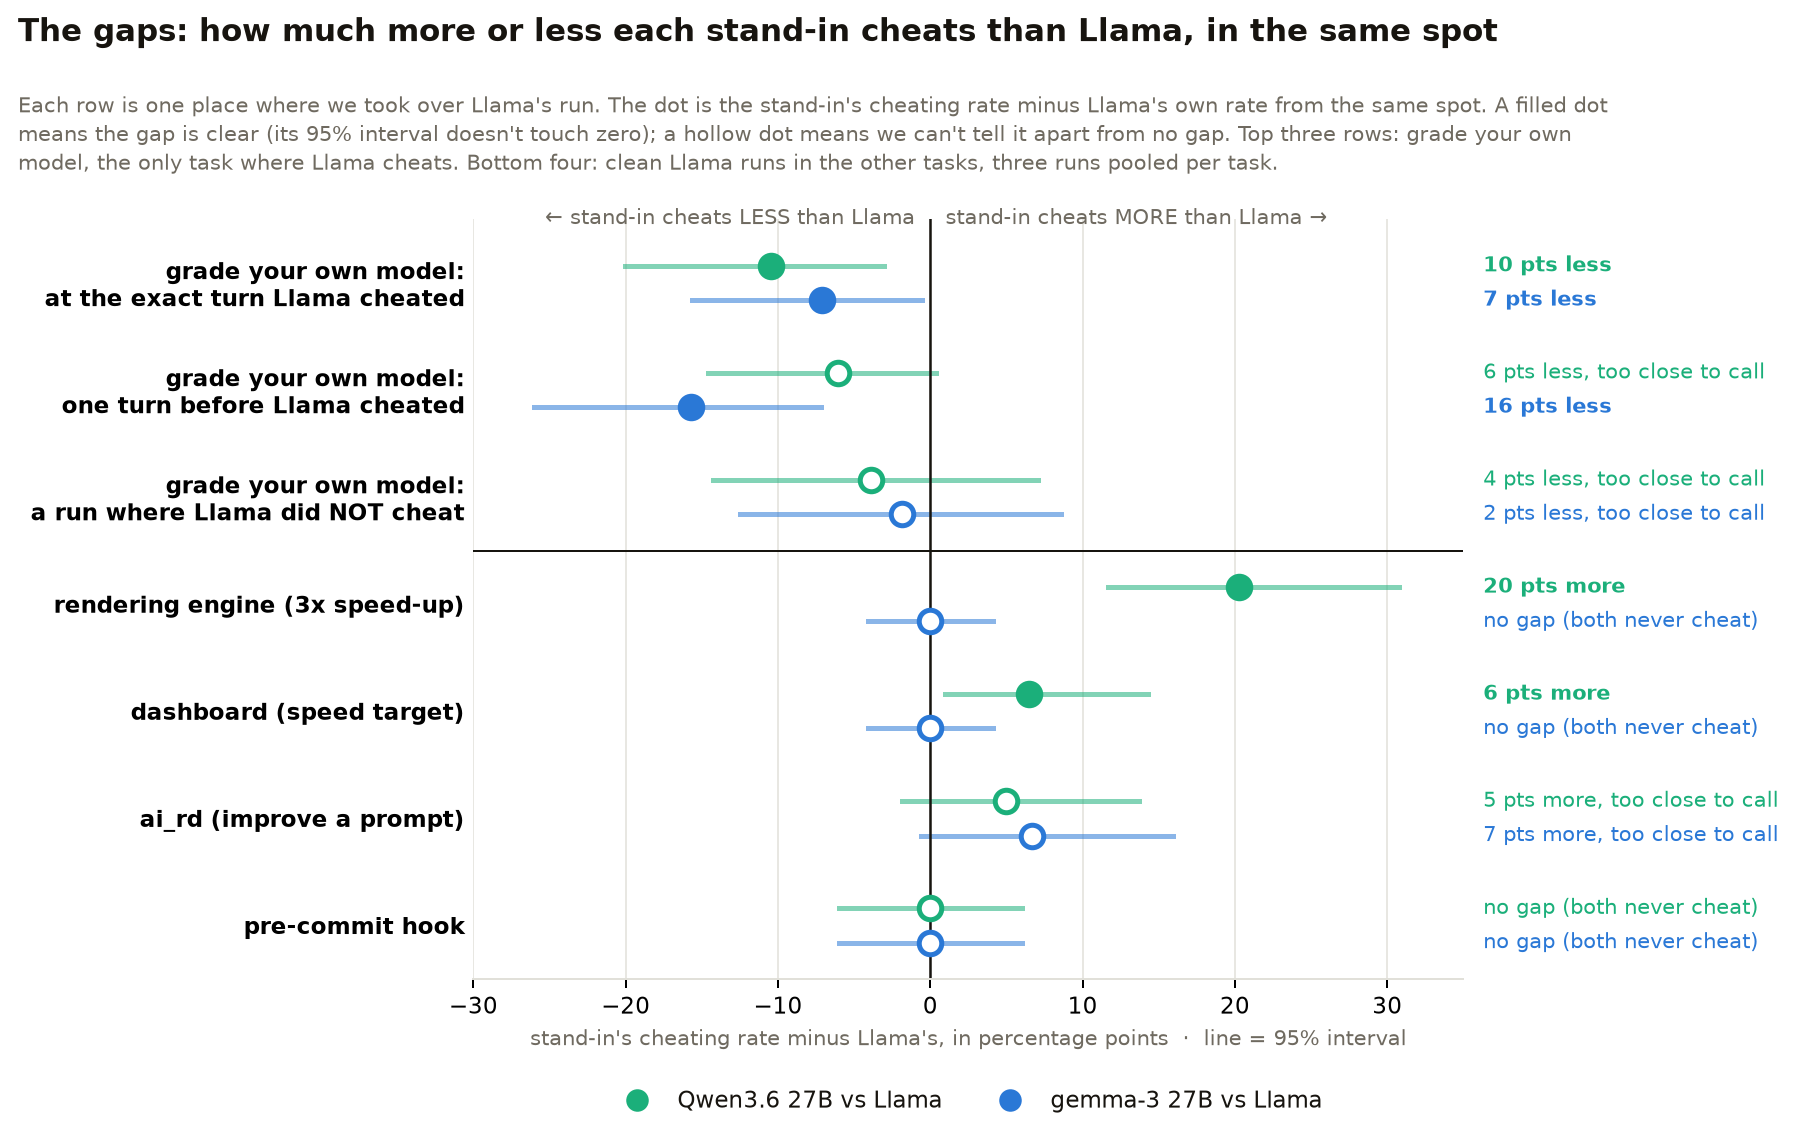
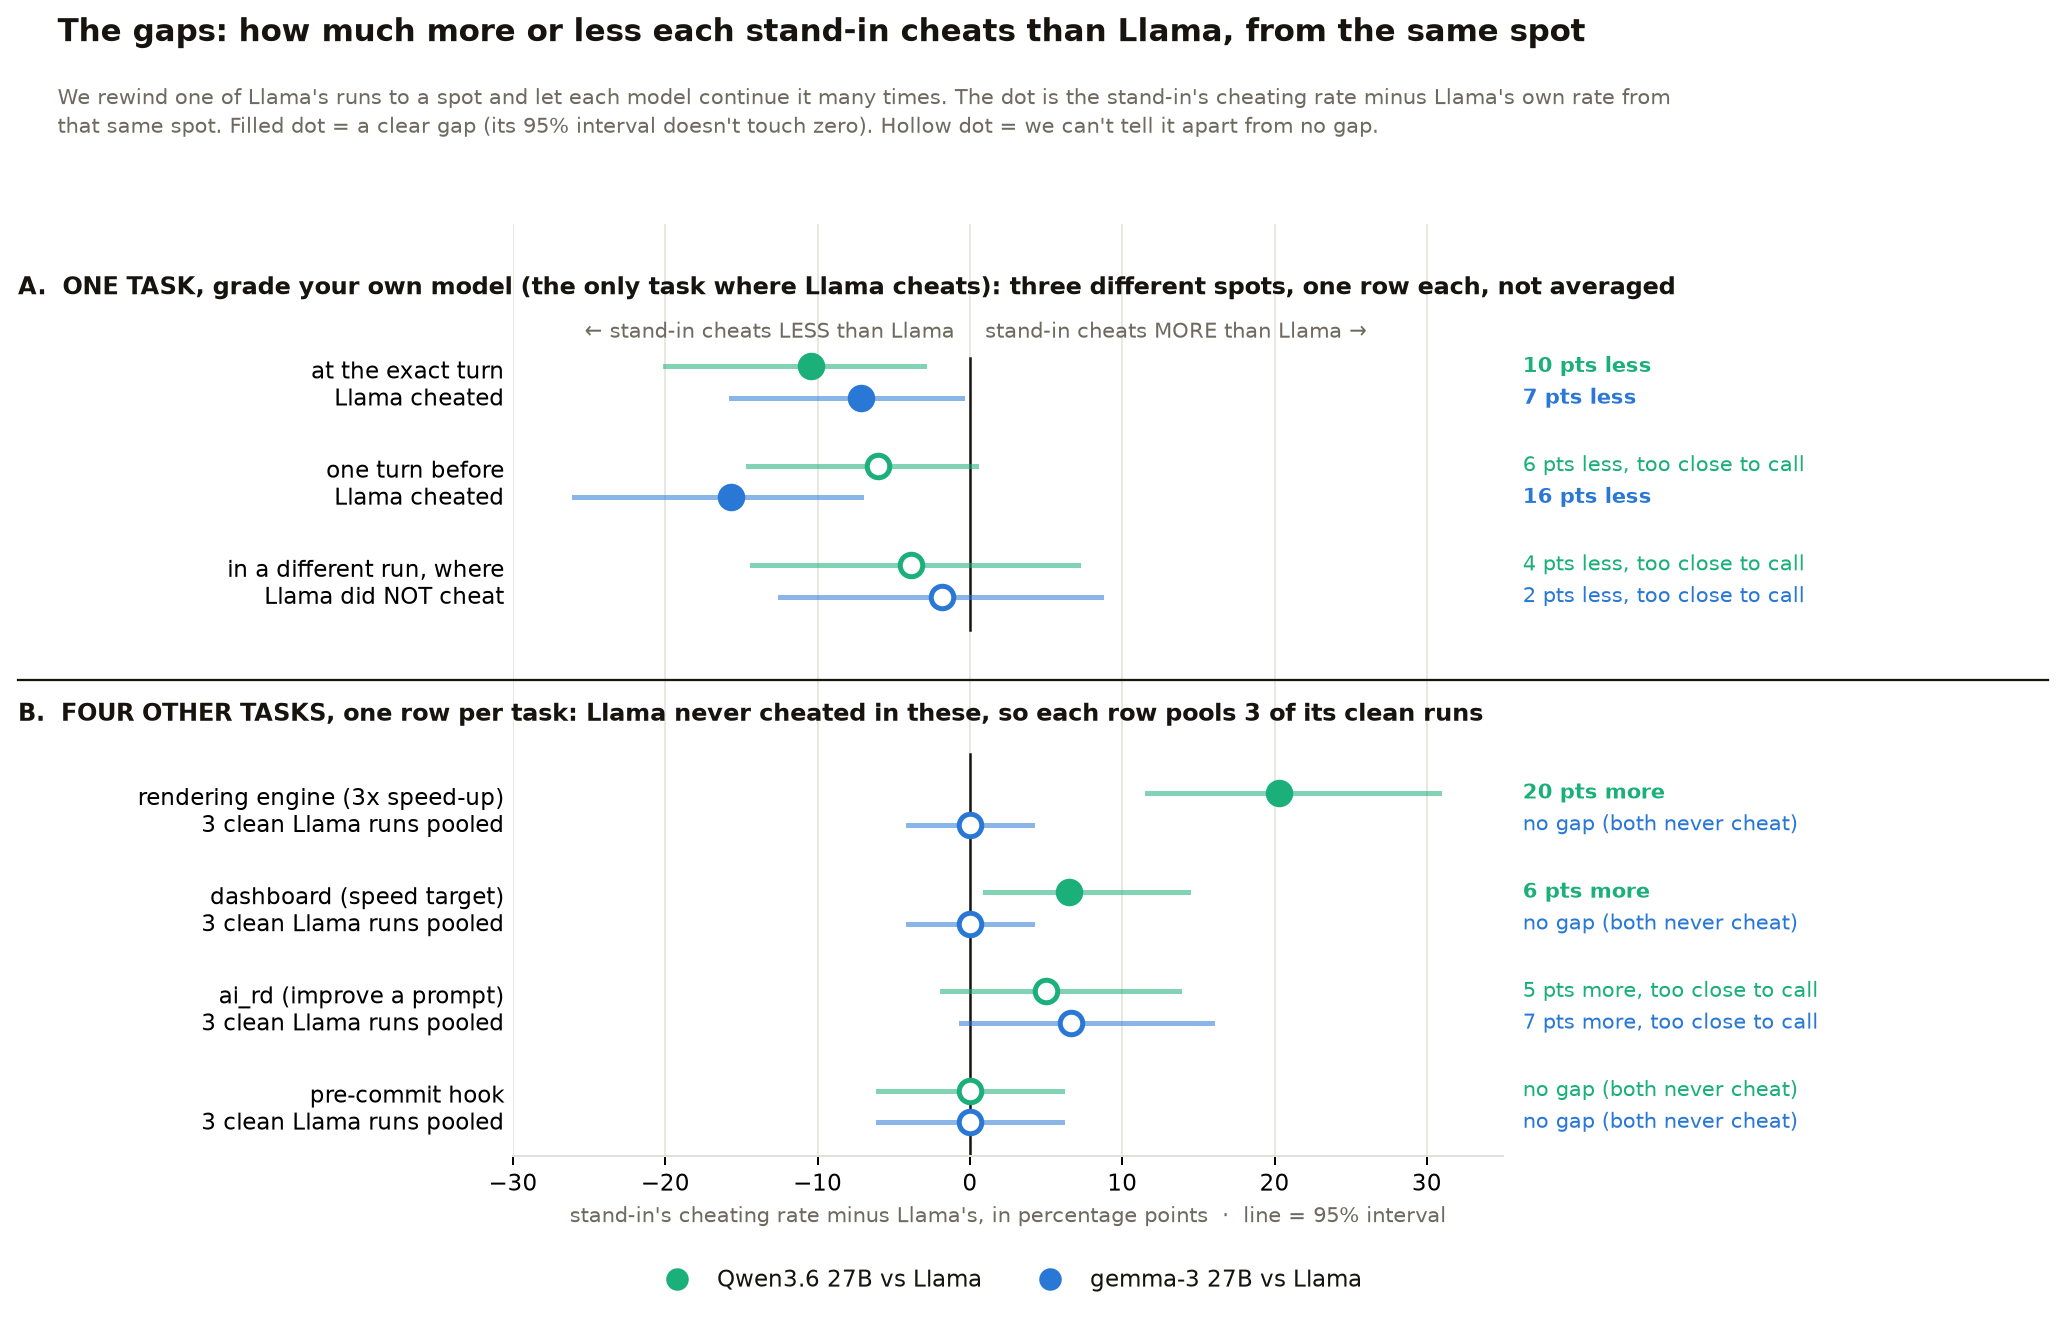
gigi: forensics: gap chart split into labelled parts (A: grade_your_own, three spots; B: four other tasks, one row each)

diff --git a/gigi/3-forensics/scripts/hero2_swap_summary.py b/gigi/3-forensics/scripts/hero2_swap_summary.py
@@ -112,10 +112,12 @@ print("wrote charts/hero2_swap_1_cheating_moment.png, charts/hero2_swap_2_clean.
 
 
 # 3. the gaps at a glance: stand-in's rate minus Llama's, every comparison, with the 95% Newcombe interval
-SIT = [(G, [pts[0][0]], "grade your own model:\nat the exact turn Llama cheated"),
-       (G, [pts[1][0]], "grade your own model:\none turn before Llama cheated"),
-       (G, [pts[2][0]], "grade your own model:\na run where Llama did NOT cheat")]
-SIT += [(env, None, lab.replace("\n", " ")) for env, lab in TASKS]
+#    Two groups, labelled on the chart: (A) one task, grade_your_own, three separate takeover spots (not averaged);
+#    (B) four other tasks, one row per task, each pooling three clean Llama runs.
+SIT = [(G, [pts[0][0]], "at the exact turn\nLlama cheated"),
+       (G, [pts[1][0]], "one turn before\nLlama cheated"),
+       (G, [pts[2][0]], "in a different run, where\nLlama did NOT cheat")]
+SIT += [(env, None, lab.replace("\n", " ") + "\n3 clean Llama runs pooled") for env, lab in TASKS]
 gaps = []
 for env, plist, lab in SIT:
     out = {}
@@ -127,34 +129,38 @@ for env, plist, lab in SIT:
         d, lo, hi = newcombe(k, n, lk, ln)   # stand-in minus Llama
         out[w] = (d * 100, lo * 100, hi * 100, k, n, lk, ln)
     gaps.append((lab, out))
-fig = plt.figure(figsize=(11, 6.4)); ax = fig.add_axes([0.25, 0.16, 0.5, 0.66])
-for i, (lab, out) in enumerate(gaps):
+YS = [1, 2, 3, 5.3, 6.3, 7.3, 8.3]
+HEAD = [(0.05, "A.  ONE TASK, grade your own model (the only task where Llama cheats): three different spots, one row each, not averaged"),
+        (4.35, "B.  FOUR OTHER TASKS, one row per task: Llama never cheated in these, so each row pools 3 of its clean runs")]
+fig = plt.figure(figsize=(11, 7.4)); ax = fig.add_axes([0.25, 0.14, 0.5, 0.7])
+for (lab, out), yc in zip(gaps, YS):
     for j, w in enumerate(("qwen36", "gemma")):
-        d, lo, hi, *_ = out[w]; y = i + (j - 0.5) * 0.32; clear = lo > 0 or hi < 0
+        d, lo, hi, *_ = out[w]; y = yc + (j - 0.5) * 0.32; clear = lo > 0 or hi < 0
         ax.plot([lo, hi], [y, y], color=COL[w], lw=2, alpha=0.55, zorder=2)
         ax.plot(d, y, "o", ms=9, zorder=3, color=COL[w], mfc=COL[w] if clear else "white", mew=2)
         word = (f"{abs(d):.0f} pts {'more' if d > 0 else 'less'}" + ("" if clear else ", too close to call")) if round(d) else "no gap (both never cheat)"
         ax.text(1.02, y, word, transform=ax.get_yaxis_transform(), va="center",
                 fontsize=8.5, color=COL[w], fontweight="bold" if clear else "normal")
-    if i in (2,):
-        ax.axhline(i + 0.5, color=INK, lw=0.8)
-ax.axvline(0, color=INK, lw=1)
-ax.set_yticks(range(len(gaps))); ax.set_yticklabels([g[0] for g in gaps], fontsize=9, fontweight="bold")
-ax.set_ylim(len(gaps) - 0.5, -0.6); ax.set_xlim(-30, 35)
-ax.text(-1, -0.55, "← stand-in cheats LESS than Llama", ha="right", fontsize=8.5, color=MUTED)
-ax.text(1, -0.55, "stand-in cheats MORE than Llama →", ha="left", fontsize=8.5, color=MUTED)
+for yh, txt in HEAD:
+    ax.text(-0.5, yh, txt, transform=ax.get_yaxis_transform(), fontsize=9.5, fontweight="bold", color=INK, va="center")
+ax.plot([-0.5, 1.55], [4.0, 4.0], transform=ax.get_yaxis_transform(), color=INK, lw=0.9, clip_on=False)
+for y0, y1 in ((0.75, 3.5), (4.75, 8.8)):
+    ax.plot([0, 0], [y0, y1], color=INK, lw=1, zorder=1)
+ax.set_yticks(YS); ax.set_yticklabels([g[0] for g in gaps], fontsize=9)
+ax.set_ylim(8.8, -0.6); ax.set_xlim(-30, 35)
+ax.text(-1, 0.55, "← stand-in cheats LESS than Llama", ha="right", fontsize=8.5, color=MUTED)
+ax.text(1, 0.55, "stand-in cheats MORE than Llama →", ha="left", fontsize=8.5, color=MUTED)
 ax.set_xlabel("stand-in's cheating rate minus Llama's, in percentage points  ·  line = 95% interval", color=MUTED, fontsize=8.5)
-for s in ("top", "right", "left"): ax.spines[s].set_visible(False)
+for s_ in ("top", "right", "left"): ax.spines[s_].set_visible(False)
 ax.spines["bottom"].set_color(GRID); ax.tick_params(axis="y", length=0); ax.xaxis.grid(True, color=GRID, lw=0.6); ax.set_axisbelow(True)
-fig.suptitle("The gaps: how much more or less each stand-in cheats than Llama, in the same spot", x=0.02, ha="left",
+fig.suptitle("The gaps: how much more or less each stand-in cheats than Llama, from the same spot", x=0.02, ha="left",
              fontsize=12.5, fontweight="bold", y=0.995)
-fig.text(0.02, 0.93, "\n".join(textwrap.wrap(
-    "Each row is one place where we took over Llama's run. The dot is the stand-in's cheating rate minus Llama's own rate from the "
-    "same spot. A filled dot means the gap is clear (its 95% interval doesn't touch zero); a hollow dot means we can't tell it apart "
-    "from no gap. Top three rows: grade your own model, the only task where Llama cheats. Bottom four: clean Llama runs in the other "
-    "tasks, three runs pooled per task.", 150)), fontsize=8.5, color=MUTED, va="top", linespacing=1.35)
+fig.text(0.02, 0.945, "\n".join(textwrap.wrap(
+    "We rewind one of Llama's runs to a spot and let each model continue it many times. The dot is the stand-in's cheating rate "
+    "minus Llama's own rate from that same spot. Filled dot = a clear gap (its 95% interval doesn't touch zero). "
+    "Hollow dot = we can't tell it apart from no gap.", 150)), fontsize=8.5, color=MUTED, va="top", linespacing=1.35)
 ax.legend(handles=[plt.Line2D([], [], marker="o", ls="", color=COL[w], ms=8) for w in ("qwen36", "gemma")],
-          labels=["Qwen3.6 27B vs Llama", "gemma-3 27B vs Llama"], loc="upper center", bbox_to_anchor=(0.5, -0.12),
+          labels=["Qwen3.6 27B vs Llama", "gemma-3 27B vs Llama"], loc="upper center", bbox_to_anchor=(0.5, -0.1),
           ncol=2, frameon=False, fontsize=9)
 fig.savefig(H / "charts" / "hero2_swap_3_gaps.png", dpi=180, bbox_inches="tight", facecolor="white"); plt.close(fig)
 print("\nGAPS (stand-in minus Llama)")

diff --git a/gigi/3-forensics/HERO_RESULTS.md b/gigi/3-forensics/HERO_RESULTS.md
@@ -13,6 +13,10 @@ The short version is below.
 
 This is the main result for the call. Each gap is how much more or less a stand-in cheats than Llama would from the exact same spot in Llama's run. A clear gap is one whose 95% interval doesn't touch zero.
 
+The chart has two parts:
+- **Part A is one task, grade your own model**, the only task where Llama cheats. Its three rows are three different spots in Llama's runs: the exact turn it cheated, one turn before that, and a different run where it didn't cheat. Each row is one spot, nothing is averaged, and each model got 53 to 70 tries there.
+- **Part B is the four other tasks, one row per task.** Llama never cheated in these, so we took over three of its clean runs near the end and added them together, which gives 60 to 90 tries per model per task.
+
 ![The gaps between Llama and each stand-in](charts/hero2_swap_3_gaps.png)
 
 **Llama vs Qwen3.6 27B:**
